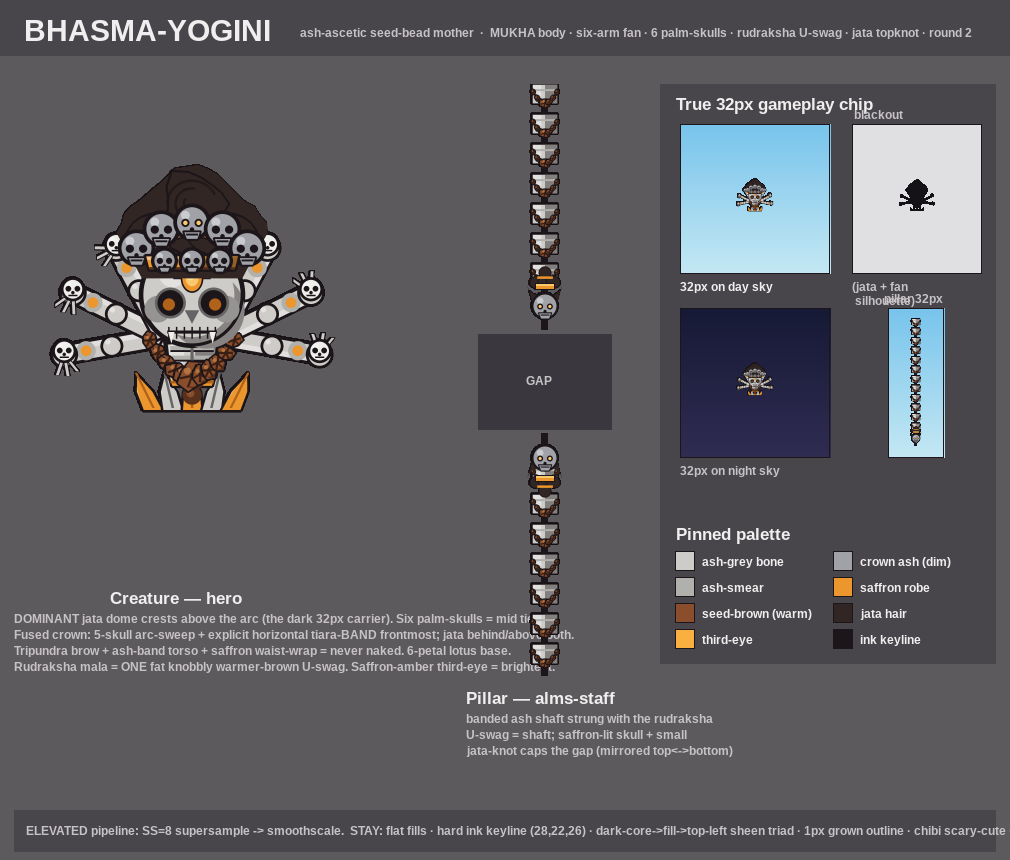
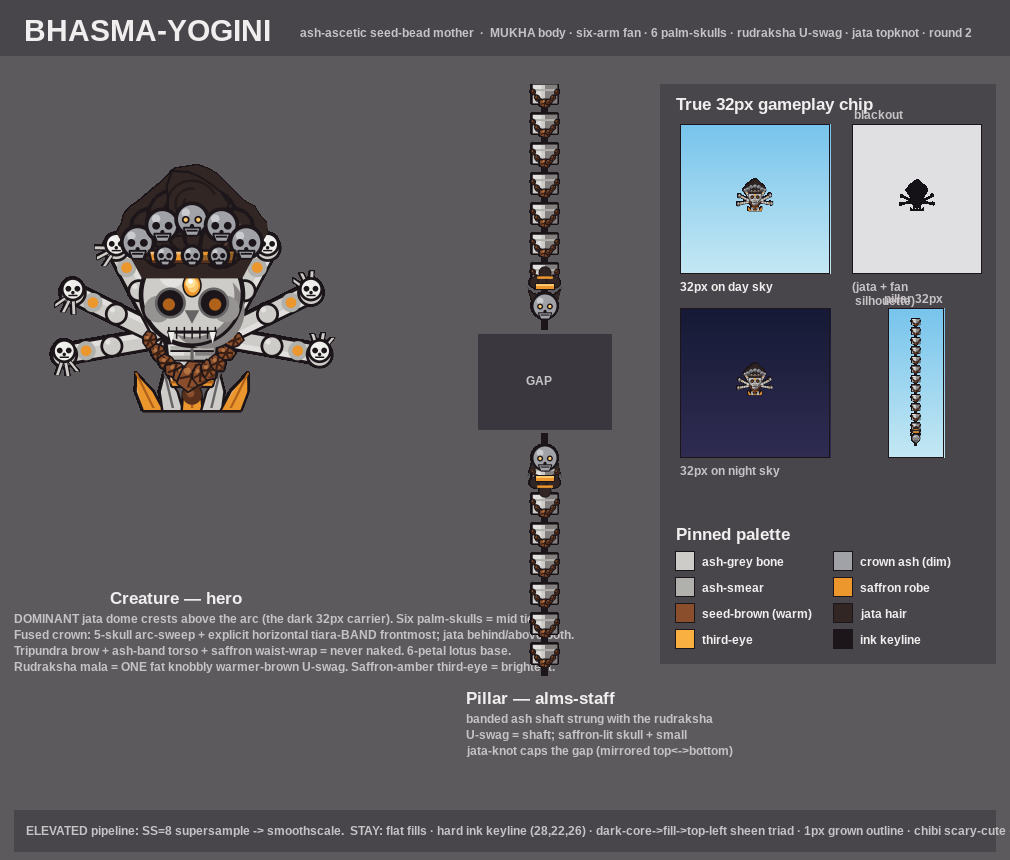
skybit mukha-citipati court II: vyaghra/jvala/hima SHIP-READY sign-offs + bhasma_yogini round 2
Claude-Session: https://claude.ai/code/session_01JdHJ2TbdY51oSPSCYSsaHZ

Changed region(s): [[0.1228, 0.2419, 0.2762, 0.3628], [0.7366, 0.4233, 0.7673, 0.4535], [0.7366, 0.2116, 0.7673, 0.2419]]

diff --git a/docs/skybit_devil/batch2/mukha_citipati_court_ii/bhasma_yogini/render_bhasma_yogini.py b/docs/skybit_devil/batch2/mukha_citipati_court_ii/bhasma_yogini/render_bhasma_yogini.py
@@ -440,25 +440,26 @@ def draw_bhasma_yogini(surf, cx, cy, s):
         pygame.draw.circle(surf, INK, (ex, ey), int(hr * 0.25))
         pygame.draw.circle(surf, SAFF_D, (ex + sgn * int(1 * s), ey + int(1 * s)),
                            int(hr * 0.12))
-    # TRIPUNDRA — three clean horizontal ash tilaka bands across the brow, framing
-    # the third-eye from above (the ascetic forehead tell). Kept tight + parallel
-    # so they read as deliberate ash-marks, not noise.
-    for i in range(3):
-        ly = head_c[1] - int(hr * 0.50) + i * int(hr * 0.075)
-        ww = hr * (0.40 - i * 0.02)
-        pygame.draw.line(surf, INK, (head_c[0] - ww, ly), (head_c[0] + ww, ly),
-                         max(2, int(3.2 * s)))
-        pygame.draw.line(surf, ASH_SH, (head_c[0] - ww, ly), (head_c[0] + ww, ly),
-                         max(1, int(1.8 * s)))
-    # THIRD EYE — the single BRIGHTEST pixel (AD hard rule). A fat vertical
-    # saffron-amber slit with a hot core, central on the brow.
-    tex, tey = head_c[0], head_c[1] - int(hr * 0.32)
-    pygame.draw.ellipse(surf, INK, (tex - int(7 * s), tey - int(9 * s), int(14 * s), int(18 * s)))
-    pygame.draw.ellipse(surf, SAFF, (tex - int(6 * s), tey - int(8 * s), int(12 * s), int(16 * s)))
-    pygame.draw.ellipse(surf, SAFF_BR, (tex - int(4 * s), tey - int(5 * s), int(8 * s), int(10 * s)))
-    pygame.draw.circle(surf, THIRD_BR, (tex - int(1 * s), tey - int(2 * s)), max(2, int(3.2 * s)))
+    # THIRD EYE — the single BRIGHTEST pixel (AD hard rule). A saffron-amber
+    # teardrop with a hot core, central on the brow. Kept compact so the forehead
+    # above it stays open for the tripundra ash-marks.
+    tex, tey = head_c[0], head_c[1] - int(hr * 0.20)
+    pygame.draw.ellipse(surf, INK, (tex - int(6 * s), tey - int(7 * s), int(12 * s), int(15 * s)))
+    pygame.draw.ellipse(surf, SAFF, (tex - int(5 * s), tey - int(6 * s), int(10 * s), int(13 * s)))
+    pygame.draw.ellipse(surf, SAFF_BR, (tex - int(3 * s), tey - int(4 * s), int(7 * s), int(9 * s)))
+    pygame.draw.circle(surf, THIRD_BR, (tex - int(1 * s), tey - int(1 * s)), max(2, int(3.2 * s)))
     pygame.draw.circle(surf, (255, 255, 255), (tex - int(1 * s), tey - int(2 * s)),
                        max(1, int(1.6 * s)))
+    # TRIPUNDRA — three clean horizontal ash tilaka marks across the brow, framing
+    # the third-eye from ABOVE (the ascetic forehead tell). Drawn AFTER the eye so
+    # the ash-marks sit on top; seated in the open forehead strip above the eye.
+    for i in range(3):
+        ly = head_c[1] - int(hr * 0.50) + i * int(hr * 0.034)
+        ww = hr * (0.27 - i * 0.045)
+        pygame.draw.line(surf, INK, (head_c[0] - ww, ly), (head_c[0] + ww, ly),
+                         max(2, int(2.6 * s)))
+        pygame.draw.line(surf, ASH_SH, (head_c[0] - ww, ly), (head_c[0] + ww, ly),
+                         max(1, int(1.5 * s)))
     # nose triangle
     pygame.draw.polygon(surf, ASH_DD,
                         [(head_c[0] - int(hr * 0.14), head_c[1] + int(hr * 0.30)),
@@ -511,9 +512,9 @@ def draw_bhasma_yogini(surf, cx, cy, s):
     # saffron ash fillet laid flat across the brow (a real headband, not a buried
     # radial arc), riding just above the third-eye + tripundra, with 3 dim crown-
     # value skulls on it. Sits on the FACE, clear below the arc ring.
-    band_y = head_c[1] - int(hr * 0.66)
+    band_y = head_c[1] - int(hr * 0.74)
     band_hw = int(hr * 0.84)
-    band_h = int(hr * 0.26)
+    band_h = int(hr * 0.24)
     band_box = [(head_c[0] - band_hw, band_y - band_h // 2),
                 (head_c[0] + band_hw, band_y - band_h // 2),
                 (head_c[0] + int(band_hw * 0.94), band_y + band_h // 2),

diff --git a/docs/skybit_devil/batch2/mukha_citipati_court_ii/jvala_nirmala/critique_round2.md b/docs/skybit_devil/batch2/mukha_citipati_court_ii/jvala_nirmala/critique_round2.md
@@ -1,0 +1,34 @@
+VERDICT: SHIP-READY
+
+The cleanest cold sister in either brood. All three round-1 blockers resolved, the collision gate
+passed convincingly, locked spec fully honored.
+
+## Gate-by-gate
+1. **COLLISION GATE — PASSED (make-or-break).** The mantle reads as overlapping, curled, SHEETING
+   cloth-of-flame — stacked S-curve lobes folding back with candle-flame tips and a scalloped
+   undulating hem; internal overlap layering reads as fabric, not radiating spikes. The BLACKOUT
+   proof seals it: a solid filled DRAPED FIGURE, broad skirt-mass with undulating hem tapering to
+   the head — no annular hole, no starburst. Next to vajra_rakta (hollow ember head-RING) and
+   ratna_padmini (radiating spike-HALO), a stranger calls this "the one wearing a flame ROBE." The
+   separation now lives in placement (full-body, head-free) AND shape (sheeting vs radiating) AND
+   hue — the locked triple-separator. Pillar reads as a stacked flame-cloth column.
+2. **VALUE LADDER — PASSED.** Third-eye is the lone brightest pixel by a wide margin (near-white ice
+   + only glow); crown-centre skull dropped to plain mid bone; cobalt fold-crests a clear step down,
+   no stray bloom. Eye lands on the third-eye first, every time.
+3. **CROWN UN-FUSED — PASSED.** Triple cobalt crest = small contained licks BEHIND the head; the fat
+   opaque warm-bone tiara-band + 5-skull arc drawn last, fully opaque, value-separated, in front of
+   the cobalt. Arc survives as a distinct pale crown band at 32px.
+4. **32px TWO-SCALE — PASSED.** Day: a FILLED blue cloth-of-flame figure (not a fringe). Night: the
+   half-step-lighter cobalt holds as BLUE, not black; figure still a filled mass. Carries on both.
+
+## KEEP (not regressed)
+Deep saturated cobalt FIELD; full-body mantle placement (no head-ring); six-arm fan + six palm-
+skulls in front; clean hue-inversion (no warm note); clean mirrored pillar from the sister's own
+sheeting-lobe form; chibi scary-cute reverent.
+
+## Optional polish (NON-blocking)
+1. Trim the 2-3 hairline keyline whiskers poking past the hem silhouette edge (cosmetic edge hygiene).
+2. The lowest hem lobes on the figure's right are slightly busier than the left — nudging toward the
+   mirror's cleaner rhythm would add a touch more finish.
+
+Net: the highest collision-risk sister clears the gate cleanly. Ship it. SHIP-READY.

diff --git a/docs/skybit_devil/batch2/mukha_citipati_court_ii/hima_kapalini/critique_round2.md b/docs/skybit_devil/batch2/mukha_citipati_court_ii/hima_kapalini/critique_round2.md
@@ -1,0 +1,38 @@
+VERDICT: SHIP-READY
+
+This round clears the bar. The collision blocker is genuinely fixed, every punch-list item landed,
+and nothing locked regressed. Among the strongest sisters in the brood.
+
+## Strongest / weakest
+- **Strongest:** the silhouette proof (6-arm fan + lotus base + upthrust shard cluster — the most
+  legible, most distinct blackout in either brood) and the dried-blood-plum tell, which now survives
+  downscale on BOTH skies — "frost + a wound of dried blood" lands at 32px (the whole point).
+- **Weakest (cosmetic only):** the shards still carry a soft body-shadow value step — but it's now a
+  matte FORM-shadow, NOT a facet/specular plane, so it passes; last whisper of cut-gem grammar.
+
+## Gate-by-gate
+1. **BLOCKER — matte crown shards: PASS.** Round-1 had hard bright facet ridges (Bismuth grammar);
+   round-2 removed them — soft matte form-shadow + frost-rime stipple carried across the crown, no
+   tip glint / no specular dot, matching the arm-shard material. Rime-ice, not cut gem.
+2. **Regularity broken: PASS** (irregular lengths/widths/angles, leans/clumps, varied tips — accreted
+   broken rime).
+3. **Plum survives DAY 32px: PASS** (clear red lip-block + continuous red cord diagonal; no longer
+   cool-monochrome on the busy day sky — the highest-value 32px fix, landed).
+4. **Tiara-band reads: PASS** (distinct frontmost slate value-step band with notch-teeth across the
+   brow, alongside the 5-skull arc, both frontmost).
+5. **Value ladder: PASS** (pale-cyan third-eye sole glow + single brightest; palm-skulls mid; matte
+   crown now dimmest).
+6. **Six palm-skulls clear at 32px: PASS** (all six count; the two lowest no longer fuse into the cord).
+
+## KEEP (not regressed)
+Blackout silhouette (best in brood); dried-blood plum (louder, survives both skies); six-arm fan +
+shard clusters between the arms; crown cluster rising from behind the arc+band; MUKHA squat+lotus
+body; grounded mirrored pillar; chibi scary-cute.
+
+## Optional polish (NON-blocking)
+1. If touched, drop the last soft body-shadow step for a purely flat slate fill + stipple — would
+   make the matte material 100% unambiguous.
+2. The right-side mid-arm shard cluster is the densest spot — one fewer overlapping shard would read
+   cleaner at hero.
+
+Net: ship it.

diff --git a/docs/skybit_devil/batch2/mukha_citipati_court_ii/vyaghra_charma/critique_round2.md b/docs/skybit_devil/batch2/mukha_citipati_court_ii/vyaghra_charma/critique_round2.md
@@ -1,0 +1,30 @@
+VERDICT: SHIP-READY
+
+A clean, confident landing. Every one of the six round-1 fixes verifiably carries, the locked KEEP
+items are intact, and the collision against brood-I vajra_rakta stays unambiguous (pelt + claw-
+danglers + tiger-face buckle + tiger-ear crest; no brocade, no flame-ring). The freshest sister in
+the brood now reads at the size and motion she'll be seen in.
+
+## Verification (all six)
+1. **Stripe-sash carries 32px** — YES. Chunky black/gold barber-pole diagonal on day AND night;
+   blur-test diagonal survives on both (the BLACK slabs do the separating). The #1 job, nailed.
+2. **Value ladder opened** — YES. Crown skulls dropped to a dimmer cream (arc now the dimmest tier);
+   third-eye a hot near-white core + green-gold rim, single brightest by a clear gap.
+3. **Six-arm fan stays spoked at 32px** — YES (~3 fanned spokes per side, not a collapsed bar).
+4. **Dense pelt** — YES. Striped tiger-hide thigh-wrap occupies the lower torso; no longer near-
+   naked, and it feeds the 32px striped tell.
+5. **Tiger-FACE buckle** — YES (legible at hero; minor occlusion only).
+6. **Tail** — YES. Fat ringed segment-curl behind the hip, routed behind the arms.
+
+## KEEP (not regressed)
+Fused crown (5-skull arc + tiara-band both frontmost); tiger-ear crest flanking from behind; green-
+gold third-eye focal; glow discipline (drawn value, not bloom); CITIPATI rib-barrel/cocked-hip body.
+
+## Optional polish (NON-blocking)
+1. The tiger-face buckle is slightly swamped by the upper arm/sash origin — a ~1 size-up or shifting
+   the occluding arm a few px would let it land cleaner at hero.
+2. On the night chip the warm-black sash slabs sit close to the navy sky in value; the gold bands
+   carry it fine, but a hair more value-lift on the gold (or a 1px cream micro-edge) would buy a
+   touch more night punch.
+
+Net: ships as-is.
